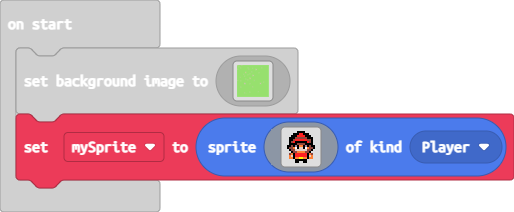
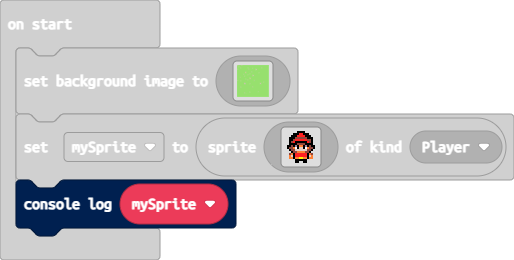
Update main.blocks, main.ts

diff --git a/main.ts b/main.ts
@@ -102,3 +102,4 @@ mySprite = sprites.create(img`
     . . . . . f f f f f f . . . . . 
     . . . . . f f . . f f . . . . . 
     `, SpriteKind.Player)
+console.log(mySprite)
